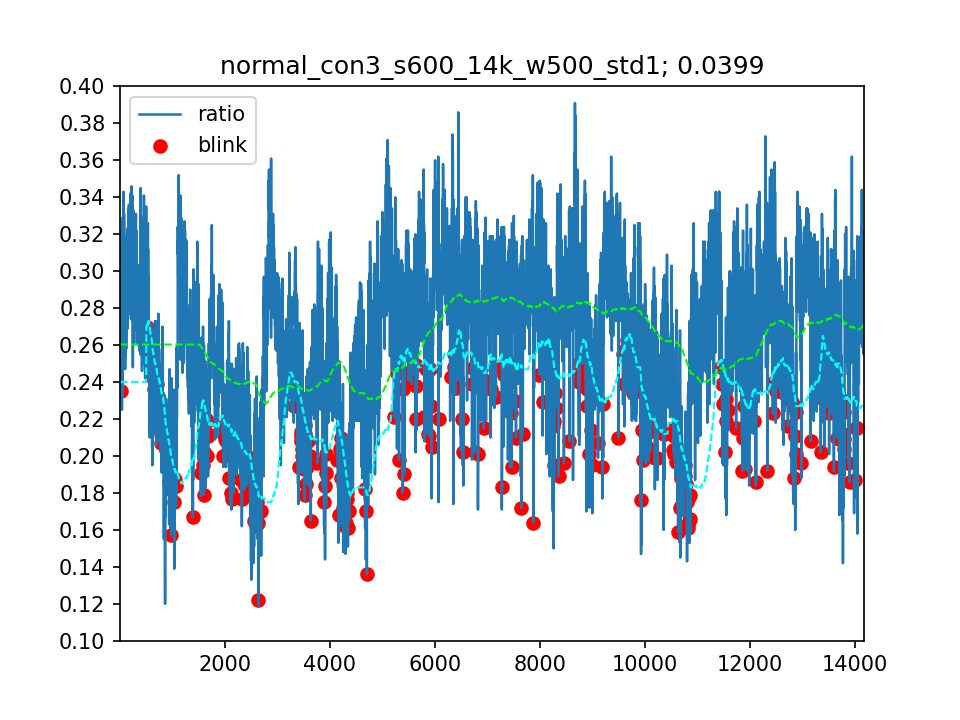
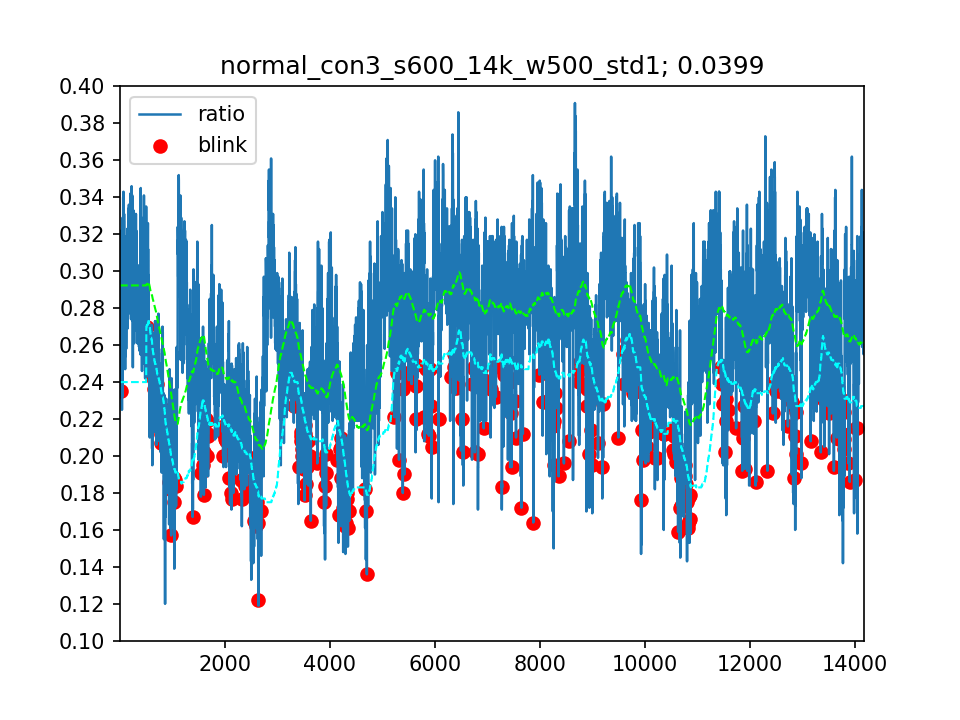
Refactor: wrap funcs into object to reduce args

diff --git a/plot_ratios.py b/plot_ratios.py
@@ -9,97 +9,119 @@ import numpy as np
 from nptyping import Float, NDArray
 
 
-def read_ratio_and_blinks(filename: str) -> Dict[str, Union[List[float],
-                                                            List[Union[float, str]]]]:
-    ratios: List[float] = []
-    # non-blinks are marked with "-" to have indices matched with ratios
-    blinks: List[Union[float, str]] = []
-    thress: List[float] = []
+class RatioPlotter:
+    def __init__(self, output_dir: Path) -> None:
+        self._ratios: List[float] = []
+        # non-blinks are marked with "-" to have indices matched with ratios
+        self._blinks: List[Union[float, str]] = []
+        self._thress: List[float] = []
+        self._output_dir = output_dir
 
-    with open(filename, mode="r") as f:
-        for line in f:
-            if line.startswith("*"):
-                line = line.lstrip("*")
-                # rewrite, consider the one berfore the last one
-                # the middle of blink
-                blinks[-2] = ratios[-2]
-            blinks.append("-")
-            ratio, thres = map(float, line.split())
-            ratios.append(ratio)
-            thress.append(thres)
-    return {"ratios": ratios, "blinks": blinks, "thress": thress}
+    def read_ratio_and_blinks_from(self, filename: str) -> None:
+        self._filename = filename
+        self._stem = Path(filename).stem
 
+        self._get_win_size_from_filename(fallback=1500)
+        self._reset_ratio_and_blinks()
+        self._update_ratio_and_blinks()
 
-def calculate_rolling_mean(
+    def _update_ratio_and_blinks(self) -> None:
+        with open(self._filename, mode="r") as f:
+            for line in f:
+                if line.startswith("*"):
+                    line = line.lstrip("*")
+                    # rewrite, consider the one berfore the last one
+                    # the middle of blink
+                    self._blinks[-2] = self._ratios[-2]
+                self._blinks.append("-")
+                ratio, thres = map(float, line.split())
+                self._ratios.append(ratio)
+                self._thress.append(thres)
+
+    def _reset_ratio_and_blinks(self) -> None:
+        self._ratios.clear()
+        self._thress.clear()
+        self._blinks.clear()
+
+    def plot_ratio_and_blinks(self, show: bool = True) -> None:
+        # standard deviation
+        std = np.std(self._ratios)
+
+        fig, ax = plt.subplots()
+        ax.set_title(f"{self._stem}; {std:.4f}")
+
+        ratio_range = (0.1, 0.4)
+
+        # plot ratios
+        ax.plot(np.arange(1, len(self._ratios)+1), self._ratios, linewidth=1.2)
+
+        # plot blinks
+        pos = []
+        blk = []
+        for i, b in enumerate(self._blinks):
+            if b != "-":
+                pos.append(i + 1)
+                blk.append(b)
+
+        ax.scatter(pos, blk, color="r")
+
+        # plot thress
+        ax.plot(np.arange(1, len(self._thress)+1), self._thress,
+                color=mcolors.CSS4_COLORS["aqua"], ls="--", linewidth=1)
+
+        ax.set(xlim=(1, len(self._ratios)+1),
+               ylim=ratio_range, yticks=np.arange(*ratio_range, 0.02))
+
+        ax.legend(["ratio", "blink"])
+
+        # ratio avg line
+        ax.plot(np.arange(1, len(self._thress)+1),
+                self._calculate_rolling_mean(self._ratios),
+                color=mcolors.CSS4_COLORS["lime"], ls="--", linewidth=1)
+        # # blink avg line
+        # mean_of_non_blinks = (np.sum(ratios) - np.sum(blk)) / (len(ratios) - len(blk))
+        # ax.axhline(y=mean_of_non_blinks, color="black", ls="--", linewidth=1)
+
+        if show:
+            plt.show()
+        else:
+            self._output_dir.mkdir(exist_ok=True)
+            plt.savefig(self._output_dir / f"{self._stem}.png", dpi=150)
+            plt.close()  # so can be garbage collected
+
+    def _calculate_rolling_mean(
+        self,
         seq: Sequence[float],
-        win_size: int) -> NDArray[(Any,), Float[64]]:
-    # means are constant if the sequence is shorter than the size of window
-    if len(seq) <= win_size:
-        return np.full(len(seq), np.mean(seq), dtype=np.float64)
+    ) -> NDArray[(Any,), Float[64]]:
+        # means are constant if the sequence is shorter than the size of window
+        if len(seq) <= self._win_size:
+            return np.full(len(seq), np.mean(seq), dtype=np.float64)
 
-    sum = math.fsum(seq[:win_size])
-    means = np.full(len(seq), sum / win_size, dtype=np.float64)
-    for i in range(win_size, len(seq)):
-        sum -= seq[i - win_size]
-        sum += seq[i]
-        means[i] = sum / win_size
-    return means
+        sum = math.fsum(seq[:self._win_size])
+        means = np.full(len(seq), sum / self._win_size, dtype=np.float64)
+        for i in range(self._win_size, len(seq)):
+            sum -= seq[i - self._win_size]
+            sum += seq[i]
+            means[i] = sum / self._win_size
+        return means
 
-
-def plot_ratio_and_blinks(ratios: List[float], blinks: List[Union[float, str]],
-                          thress: List[float], title: str = "",
-                          show: bool = True) -> None:
-    # standard deviation
-    std = np.std(ratios)
-
-    fig, ax = plt.subplots()
-    ax.set_title(f"{title}; {std:.4f}")
-
-    ratio_range = (0.1, 0.4)
-
-    # plot ratios
-    ax.plot(np.arange(1, len(ratios)+1), ratios, linewidth=1.2)
-
-    # plot blinks
-    pos = []
-    blk = []
-    for i, b in enumerate(blinks):
-        if b != "-":
-            pos.append(i + 1)
-            blk.append(b)
-
-    ax.scatter(pos, blk, color="r")
-
-    # plot thress
-    ax.plot(np.arange(1, len(thress)+1), thress, color=mcolors.CSS4_COLORS["aqua"], ls="--", linewidth=1)
-
-    ax.set(xlim=(1, len(ratios)+1),
-           ylim=ratio_range, yticks=np.arange(*ratio_range, 0.02))
-
-    ax.legend(["ratio", "blink"])
-
-    # ratio avg line
-    ax.plot(np.arange(1, len(thress)+1), calculate_rolling_mean(ratios, 1500),
-            color=mcolors.CSS4_COLORS["lime"], ls="--", linewidth=1)
-    # # blink avg line
-    # mean_of_non_blinks = (np.sum(ratios) - np.sum(blk)) / (len(ratios) - len(blk))
-    # ax.axhline(y=mean_of_non_blinks, color="black", ls="--", linewidth=1)
-
-    if show:
-        plt.show()
-    else:
-        dir_path = Path.cwd() / "plots"
-        dir_path.mkdir(exist_ok=True)
-        plt.savefig(dir_path / f"{title}.png", dpi=150)
+    def _get_win_size_from_filename(self, fallback: int) -> None:
+        info = self._stem.split("_")
+        win_size = fallback
+        for p in info:
+            if p.startswith("w"):
+                win_size = int(p.strip("w"))
+                break
+        self._win_size = win_size
 
 
 if __name__ == "__main__":
-    if len(sys.argv) != 1 and sys.argv[1] == "show":
-        path = (Path.cwd() / "ratio.txt").resolve()
-        ratio_and_blinks = read_ratio_and_blinks(str(path))
-        plot_ratio_and_blinks(**ratio_and_blinks, title=path.stem)  # type: ignore
-    else:
-        dir_path = Path.cwd() / "samples"
-        for path in dir_path.iterdir():
-            ratio_and_blinks = read_ratio_and_blinks(str(path))
-            plot_ratio_and_blinks(**ratio_and_blinks, title=path.stem, show=False)  # type: ignore
+    if (len(sys.argv) not in (2, 3)
+            or (len(sys.argv) == 3 and sys.argv[2] != "show")):
+        raise RuntimeError(f"\n\t usage: python {__file__} ./$(file_path) [show]")
+
+    file_path = Path.cwd() / sys.argv[1]
+    plotter = RatioPlotter(output_dir=(Path.cwd() / "plots"))
+    plotter.read_ratio_and_blinks_from(str(file_path))
+    show = (len(sys.argv) == 3)
+    plotter.plot_ratio_and_blinks(show=show)
